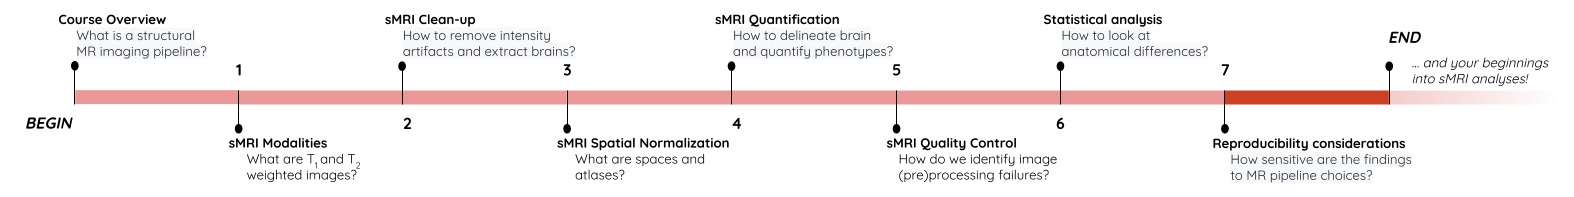
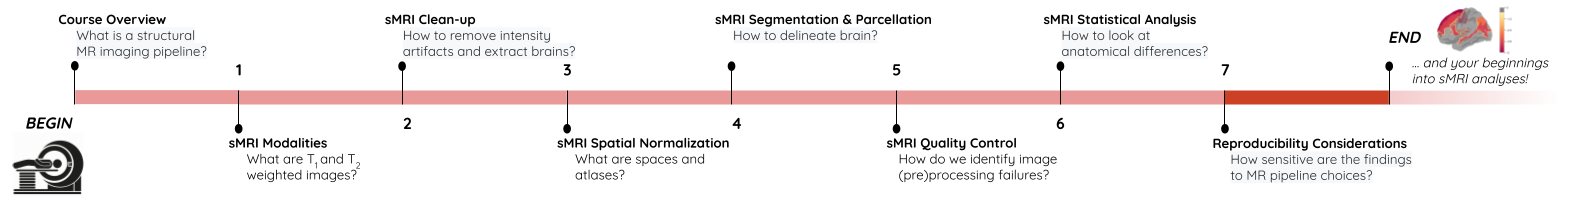
updated course flow images to match name changes

diff --git a/episodes/02-Image_Cleanup.md b/episodes/02-Image_Cleanup.md
@@ -132,17 +132,17 @@ _Source: FSL Introduction to Brain Extraction_
 
 > ## Brain extraction quiz
 >
-> Apart from stripping off non-brain tissue, what can brain-mask be used for?
+> Can we use this brain-mask as an estimate for brain volume?
 >
 > > ## Solution
-> > Brain mask offers information about total brain volume - which can be used for quality control (i.e. identifying algorithm failures) as well as for brain-specific correction (normalization) for downstream statistical models. Althugh intracranial volume is better and more commonly used measure for the latter purpose. 
+> > Brain mask at this stage only offers a crude estimate about total brain volume. It can be used for quality control (e.g. detecting preprocessing algorithm failures). More accurate estimates of total brain and intracranial volumes are calculated in subsequent steps, which are used as covariates or normalzing factors in statistical analysis. 
 > > 
 > > 
 > {: .solution}
 {: .challenge}
 
 
-#### Side-note: [ANTs](http://stnava.github.io/ANTs/) is a software comprising several tools and image processing algorithms. ANTs can be run independently or we can import ANTs scripts in python using [nypype](https://nipype.readthedocs.io/en/latest/) library. 
+#### Side-note: [ANTs](http://stnava.github.io/ANTs/) is a software comprising several tools and image processing algorithms. ANTs can be run independently or we can import ANTs scripts in python using [nipype](https://nipype.readthedocs.io/en/latest/) library. 
 
 ~~~
 from nipype.interfaces.ants.segmentation import BrainExtraction

diff --git a/README.md b/README.md
@@ -31,10 +31,10 @@ The primary goals of this workshop are:
 | Time | Episode | Question(s) Answered |
 | ---  | ---     | ---                  |
 ||Setup|Download files required for the lesson|
-| 00:00 | 1. sMRI Modalities | How is MR image acquired? What anatomical features do different modalities capture?  |
+| 00:00 | 1. sMRI Acquisition and Modalities | How is MR image acquired? What anatomical features do different modalities capture?  |
 | 00:30 | 2. sMRI Clean-up | How do we remove intensity artifacts and extract brains? |
 | 01:15 | 3. sMRI Spatial Normalization | What are "coordinate spaces", "templates", "atlases"? What is image registration? |
-| 02:00 | 4. sMRI Quantification | How do we delineate brain anatomy and quantify phenotypes? |
+| 02:00 | 4. sMRI Segmentation and Parcellation | How do we delineate brain anatomy and quantify phenotypes? |
 | 02:45 | 5. sMRI Quality-control | How do we identify image preprocessing failures? |
 | 03:15 | 6. Statistical Analysis | How to compare regional anatomical differences in case-control groups? |
 | 04:00 | 7. Reproducibility Considerations | How sensitive are the findings to your MR pipeline parameters? |

diff --git a/episodes/04-Image_Quantification.md b/episodes/04-Image_Quantification.md
@@ -1,5 +1,5 @@
 ---
-title: "sMRI Segmentation and Quantification"
+title: "sMRI Segmentation and Parcellation"
 teaching: 30
 exercises: 15
 questions:
@@ -10,9 +10,9 @@ objectives:
 - "Visualize cortical surface meshes (vertex spaces)"
 - "Visualize and differentiate pathologies in MR images" 
 keypoints:
-- "Whole-brain quantification of brain anatomy is a first step towards more specific analysis"
-- "sMRI pathology measures can have significant impact in diagnosis, treatment planning, and surgery"
+- "Whole-brain quantification of brain anatomy is a first step towards biological analysis"
 ---
+
 ## You Are Here!
 ![course_flow](../fig/episode_4/Course_flow_4.png)
 

diff --git a/episodes/04-Image_Quantification_long.md b/episodes/04-Image_Quantification_long.md
@@ -1,5 +1,5 @@
 ---
-title: "sMRI Segmentation and Quantification"
+title: "sMRI Segmentation and Parcellation"
 teaching: 30
 exercises: 15
 questions:
@@ -10,8 +10,7 @@ objectives:
 - "Visualize cortical surface meshes (vertex spaces)"
 - "Visualize and differentiate pathologies in MR images" 
 keypoints:
-- "Whole-brain quantification of brain anatomy is a first step towards more specific analysis"
-- "sMRI pathology measures can have significant impact in diagnosis, treatment planning, and surgery"
+- "Whole-brain quantification of brain anatomy is a first step towards biological analysis"
 ---
 ## You Are Here!
 ![course_flow](../fig/episode_4/Course_flow_4.png)
